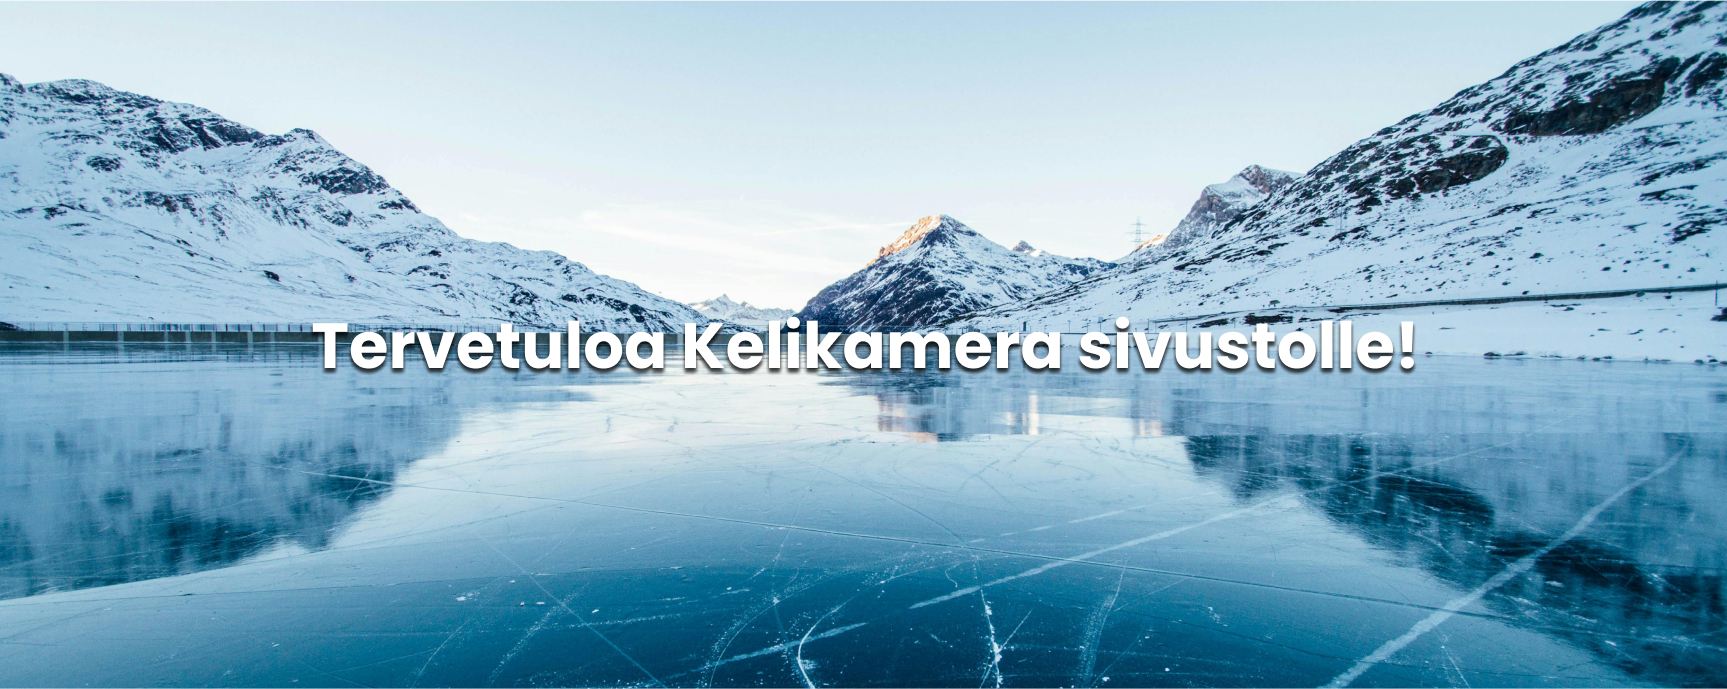
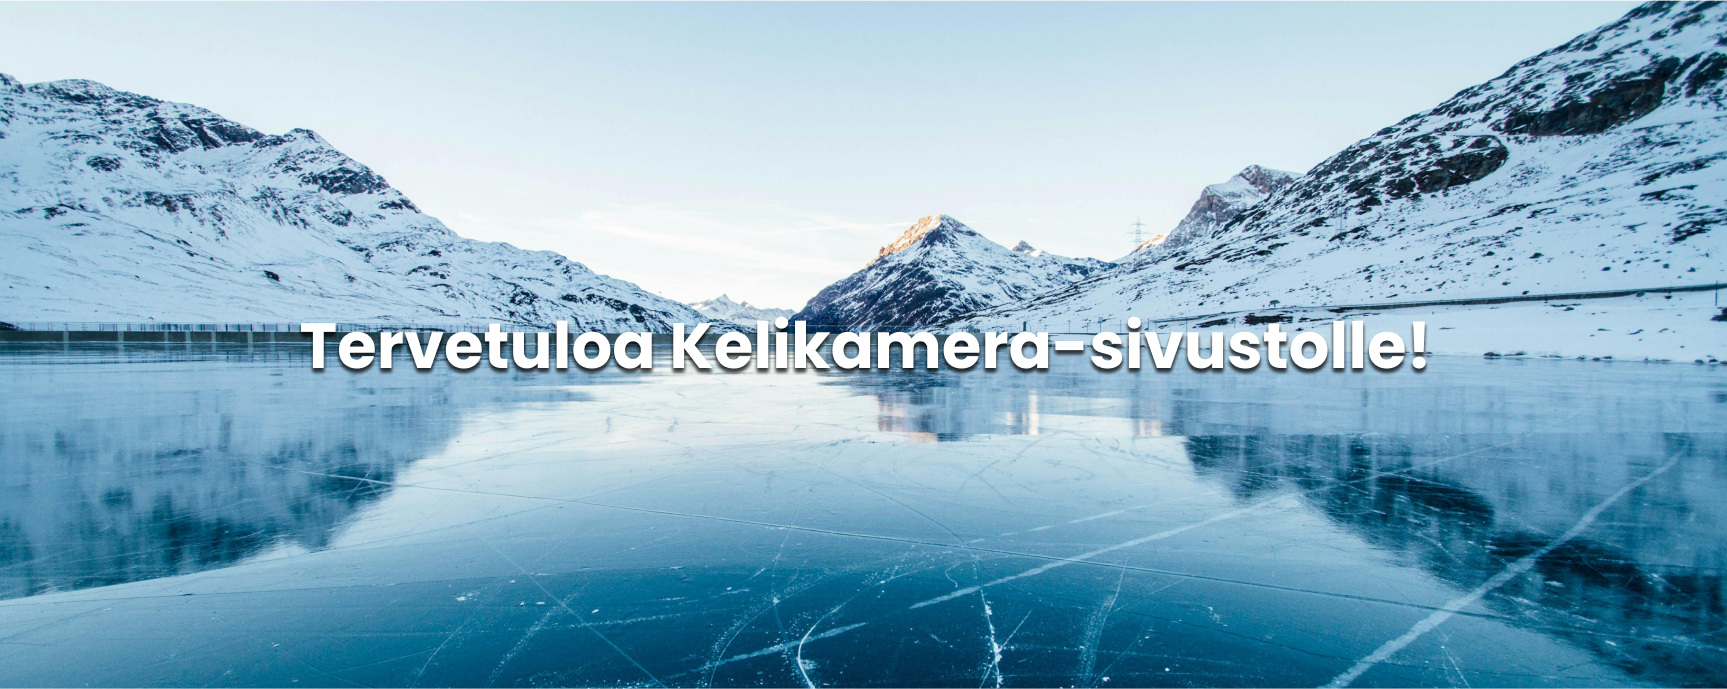
Grammar errors fixed

Changed region(s): [[0.1534, 0.4572, 0.8286, 0.5486]]

diff --git a/frontend/src/Footer.jsx b/frontend/src/Footer.jsx
@@ -1,7 +1,7 @@
 function Footer() {
   return (
     <footer>
-      <p>Copy Rights 2024 Kelikamera</p>
+      <p>Copyrights 2024 Kelikamera</p>
     </footer>
   );
 }
